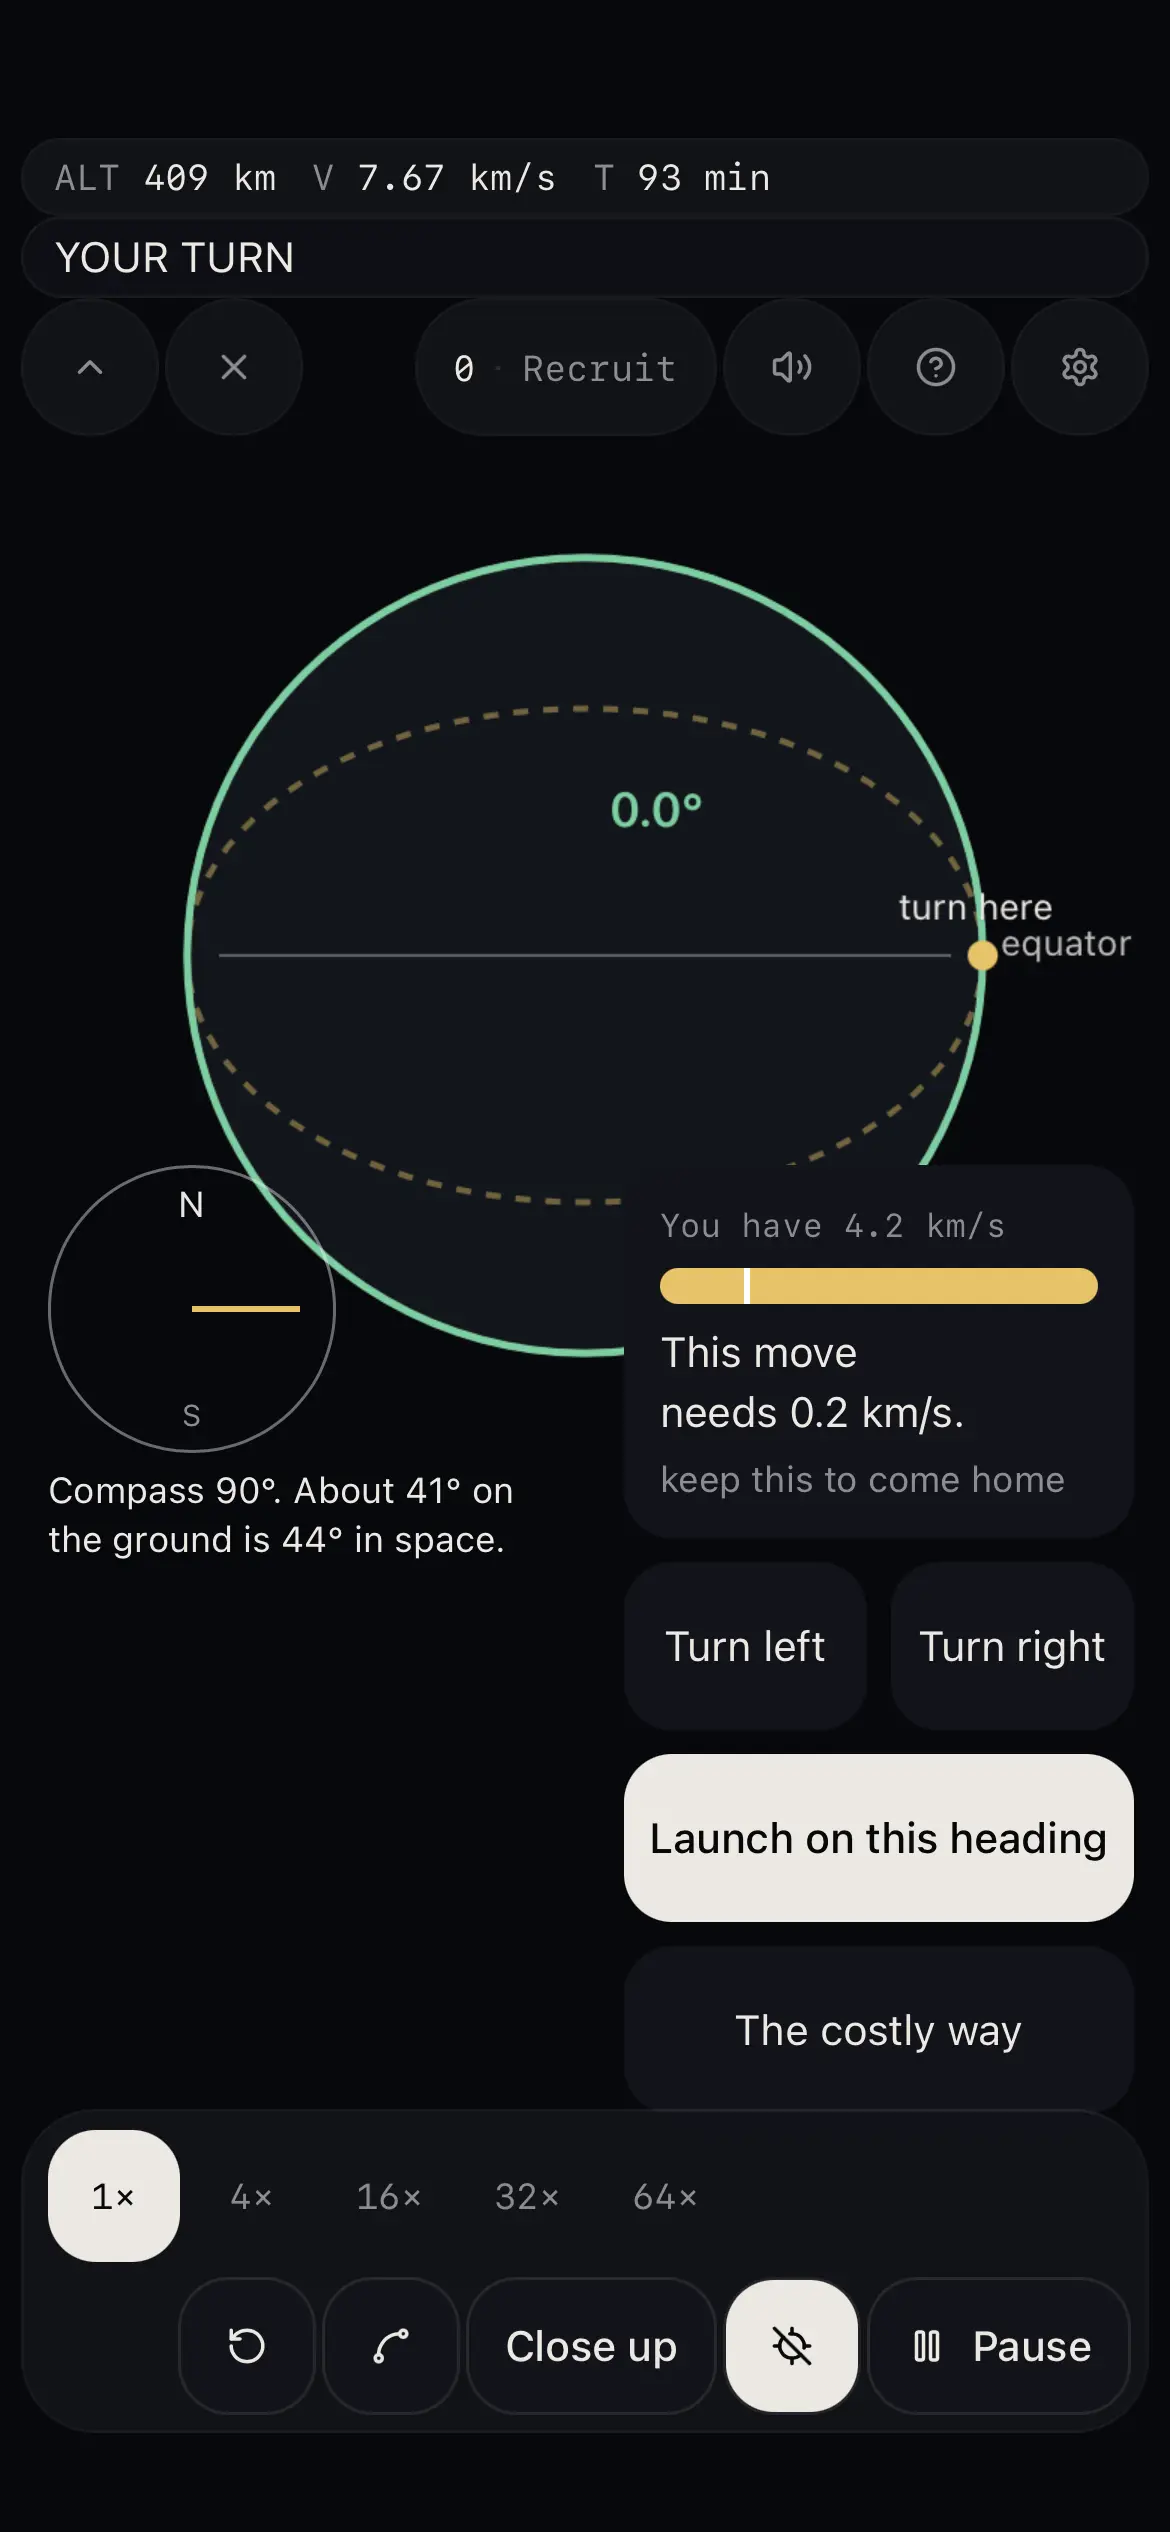
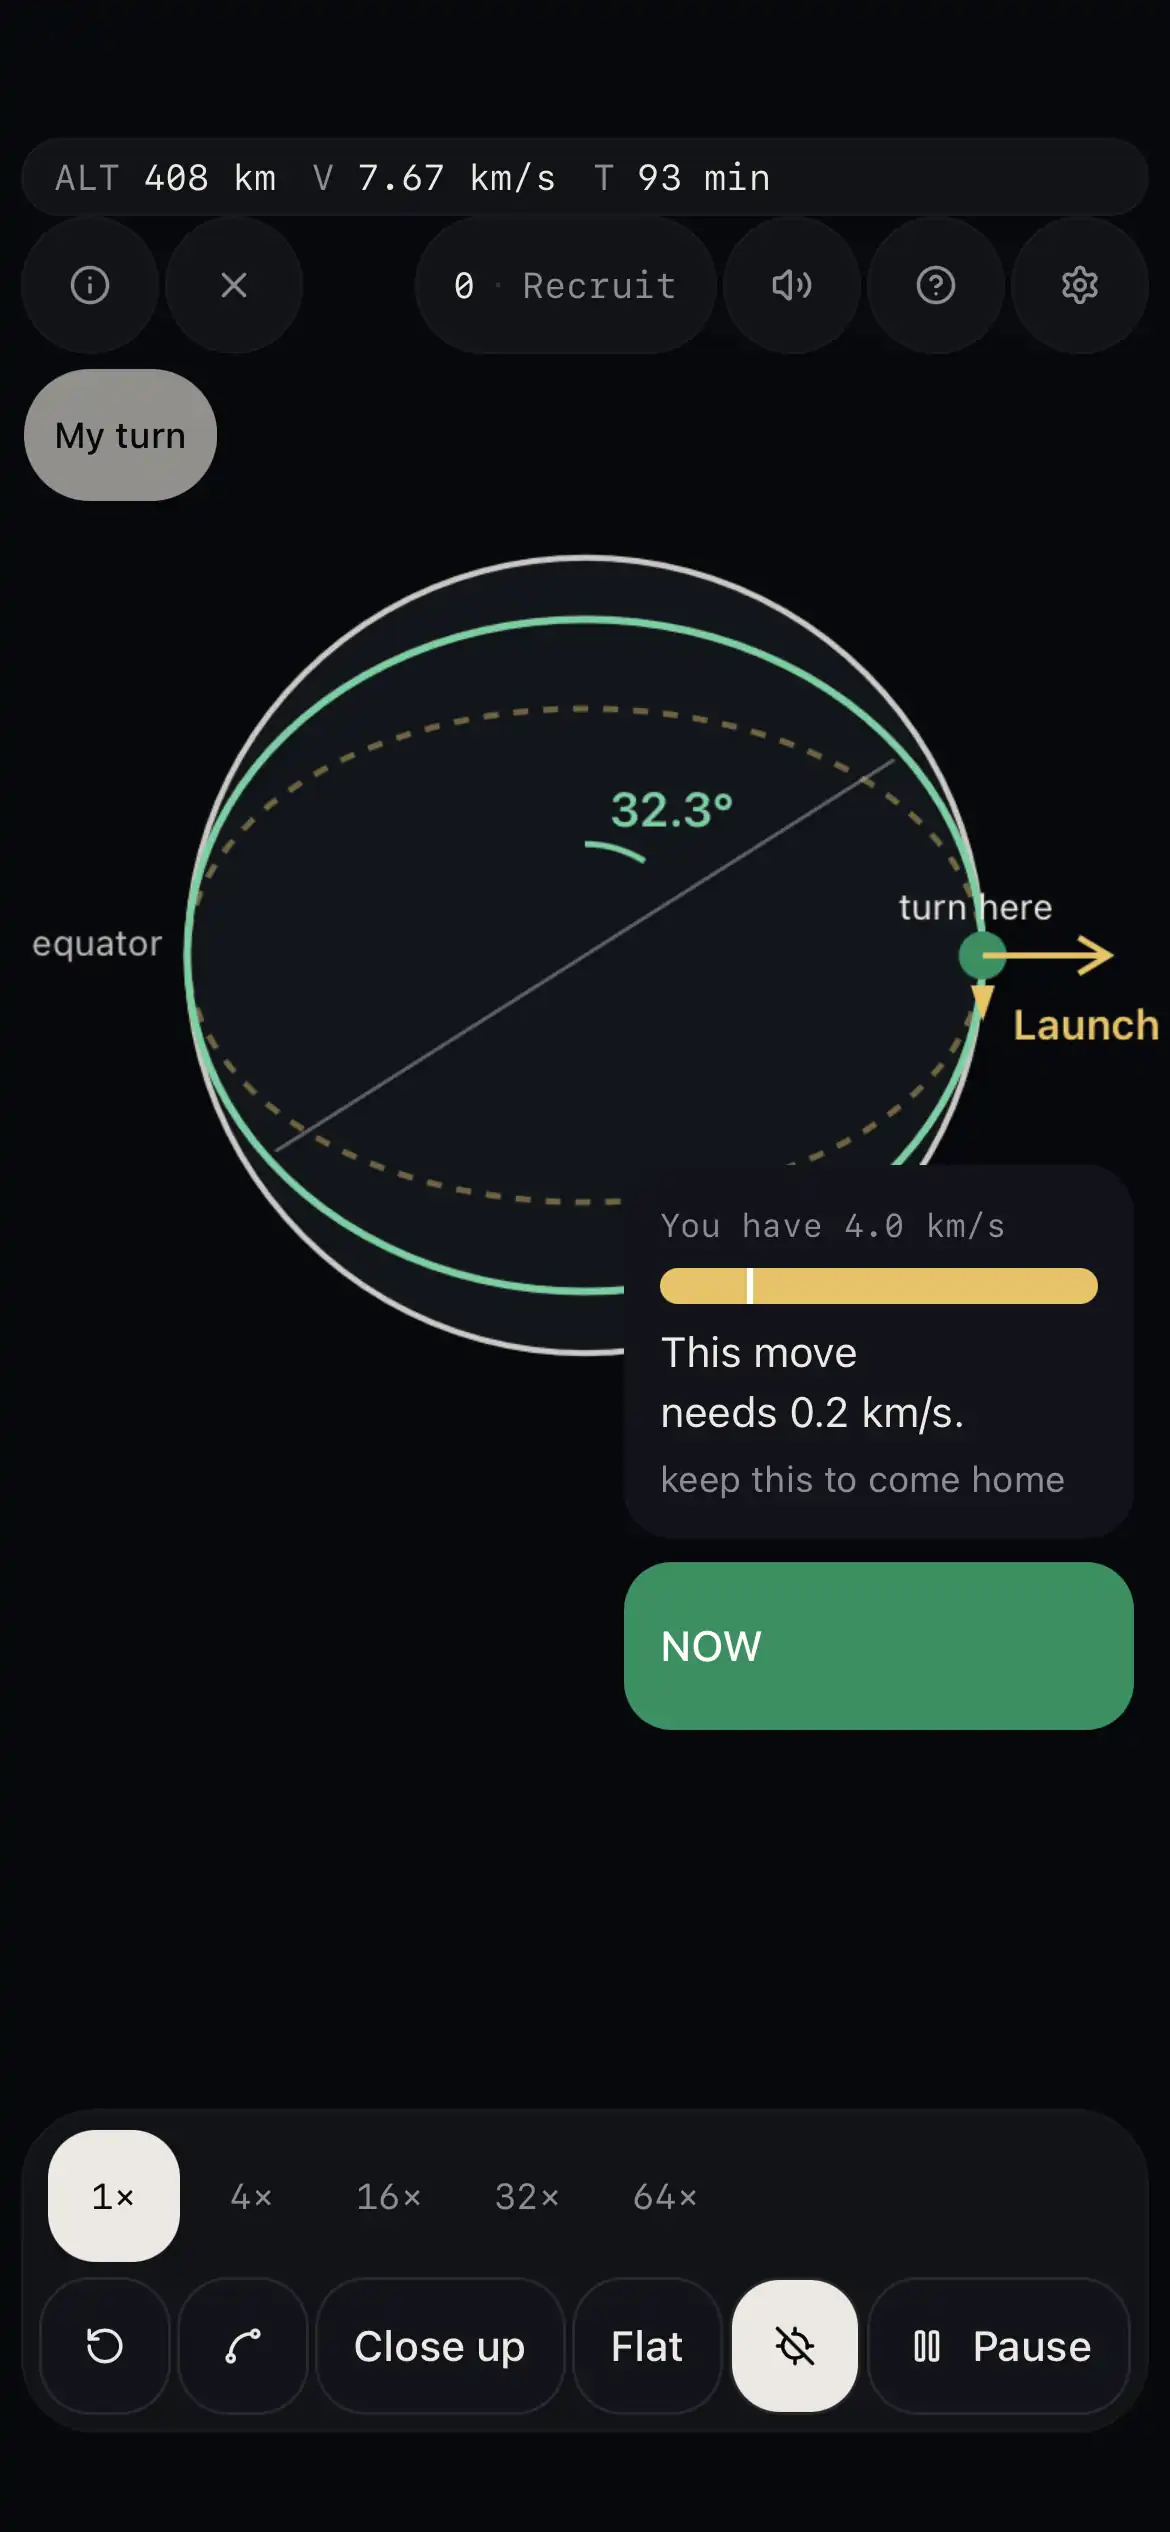
Update the manual for the queue 19 pictures

diff --git a/manual.html b/manual.html
@@ -235,10 +235,10 @@
       <h3>Tips</h3>
       <ul class="tips">
         <li>The question waits until the flight is on screen. Open the mission card on the phone if Question is folded away.</li>
-        <li>The word “turn here” still sits on the equator label. The compass and the burn name are the aim.</li>
+        <li>The word equator sits on the left of the disc. “turn here” sits on the right, on the node. They do not cover each other. On your turn the lesson card can hide the equator word.</li>
       </ul>
       <figure>
-        <img src="img/iphone-tilt-to-the-station.webp" alt="iPhone. The Tilt compass, about 41 degrees on the ground and 44 degrees in space.">
+        <img src="img/iphone-tilt-to-the-station.webp" alt="iPhone. Tilt to the station. Equator is on the left and turn here is on the right.">
         <figcaption>iPhone. Tilt to the station.</figcaption>
       </figure>
     </details>
@@ -252,7 +252,7 @@
       <p>The picture starts at Vandenberg, heading south. It is marked done when Polar is selected, the path has crossed a pole line at least four times, and the Earth’s spin has passed 0.7 radians. If Polar is not selected the status is “Select Polar in the orbit row.”</p>
       <h3>How to fly it</h3>
       <ol>
-        <li>Tap Polar, then Watch the poles. The picture opens on a compass at Vandenberg. Watch launches south. N is the top of the disc and S is the bottom. A gold track grows from the pad down to the south pole. The line says Earth spins east at 0.38 km/s and this heading takes none of it.</li>
+        <li>Tap Polar, then Watch the poles. The picture opens on a compass at Vandenberg. Watch launches south. The arrow beside the disc points down and is named South. N is the top of the disc and S is the bottom. A gold track grows from the pad down to the south pole. The line says Earth spins east at 0.38 km/s and this heading takes none of it.</li>
         <li>Press My turn. The card says: “Press Watch, Coach, or By hand. Then you fly it.”</li>
         <li>By hand starts at 90°, due east. Turn left and Turn right move the compass by 15°. South is about 183°. Launch on this heading. Due east is not over the pole, and the line says so.</li>
         <li>When the picture finishes, press Question and tap Polar. The path goes over the north pole, then the south pole. Your line stays still. Earth turns underneath, so the next lap sees a new place.</li>
@@ -267,7 +267,7 @@
         <li>A wrong pick names the orbit you tapped. Polar’s short line is “straight over both poles”.</li>
       </ul>
       <figure>
-        <img src="img/iphone-polar.webp" alt="iPhone. The Polar lesson.">
+        <img src="img/iphone-polar.webp" alt="iPhone. Polar at Vandenberg. The arrow beside the disc is named South.">
         <figcaption>iPhone. Polar.</figcaption>
       </figure>
     </details>
@@ -283,7 +283,7 @@
       <ol>
         <li>Tap Dawn-dusk, then Watch dawn-dusk. The example launches near 98.5°, a little past the pole, slightly retrograde. The line says “Launch at 98.5°. Slightly retrograde.”</li>
         <li>Press My turn. The card says: “Press Watch, Coach, or By hand. Then you fly it.”</li>
-        <li>By hand starts near 90°. Turn left and Turn right move it by 2°. The aim the picture asks for is about 98.5°. The mission card still rounds the same idea to 98.6°.</li>
+        <li>By hand starts near 90°. Turn left and Turn right move it by 0.5°. The aim the picture asks for is about 98.5°. The mission card still rounds the same idea to 98.6°.</li>
         <li>After the launch, the picture runs about 14 days. On the good tilt the line says the plane stays on the day-night line. A wrong tilt says the plane has walked off the Sun. Fast-forward applies on those days, then the burn stays at 1×.</li>
         <li>When you have flown it, press Question and tap Sun-sync. The lesson still finishes when that path has crossed a pole line four times and the Earth has turned. One real day is still a button on this orbit.</li>
       </ol>
@@ -294,10 +294,10 @@
       <h3>Tips</h3>
       <ul class="tips">
         <li>The craft is named Sentinel-2. Sun-sync’s short line, if you pick it by mistake on another question, is “the same light on every pass”.</li>
-        <li>The gold line “Earth’s bulge turns your orbit” is drawn across the ring. The sentence at the top is the same lesson.</li>
+        <li>The gold line “Earth’s bulge turns your orbit” sits under the disc. It does not cross the ring.</li>
       </ul>
       <figure>
-        <img src="img/iphone-dawn-dusk.webp" alt="iPhone. Dawn-dusk launches at 98.5 degrees, a little past the pole.">
+        <img src="img/iphone-dawn-dusk.webp" alt="iPhone. Dawn-dusk at 98.5 degrees. The gold line sits under the disc.">
         <figcaption>iPhone. Dawn-dusk.</figcaption>
       </figure>
     </details>
@@ -382,6 +382,7 @@
       <h3>Tips</h3>
       <ul class="tips">
         <li>The fuel bar turns red when the burn costs more than you have left. “This move needs 3.4 km/s.”</li>
+        <li>When the example finishes, the line stays: “On the belt. 6 planes, about 20 200 km, two laps a day. Spent 3.44 km/s. A low orbit is quicker and costs less. GEO is higher and slower.”</li>
         <li>MEO’s short line is “the middle ring, for navigation”.</li>
       </ul>
       <figure>
@@ -501,10 +502,11 @@
       <h3>Tips</h3>
       <ul class="tips">
         <li>A burn in the middle of the coast does not aim the meeting. The path was set when you left Earth.</li>
+        <li>The circle at Mars, and the burn that leaves it, are labelled 250 km up.</li>
         <li>On a waiting burn the status ends with “Hold to burn.” The coast line says to choose a time, then watch the path.</li>
       </ul>
       <figure>
-        <img src="img/iphone-to-mars.webp" alt="iPhone. The To Mars lesson.">
+        <img src="img/iphone-to-mars.webp" alt="iPhone. Leaving Mars, labelled 250 km up.">
         <figcaption>iPhone. To Mars.</figcaption>
       </figure>
     </details>
@@ -515,7 +517,7 @@
       <h3>Goal</h3>
       <p>Backward at Mars drops the near end onto Earth. Coast. Backward at Earth drops the far end. You then share Earth's year. A capture into low orbit would be one more backward burn, or a dip into the air.</p>
       <h3>How the game marks it done</h3>
-      <p>The voyage is done when its beats are finished. The steps are “1 · Slow at Mars”, “Coast · months”, and “2 · Slow at Earth”. When it is done the status adds “Earth is here.” The lesson ends when the second burn has dropped the far end.</p>
+      <p>The voyage is done when its beats are finished. The steps are “1 · Slow at Mars”, “Coast · months”, and “2 · Slow at Earth”. When you finish it yourself, the status adds “Earth is here.” The watched example’s last frame on the phone does not keep a mission line. The lesson ends when the second burn has dropped the far end. The phone then reads about 0.00 AU from Earth, 29.86 km/s, and a period of 368.0 days.</p>
       <h3>How to fly it</h3>
       <ol>
         <li>Tap Home from Mars, then Come home. Come home on this card is this lesson, not Belly flop.</li>
@@ -534,7 +536,7 @@
         <li>The points are awarded once, on your turn, when the lesson is really finished. Doing it again does not add points.</li>
       </ul>
       <figure>
-        <img src="img/iphone-home-from-mars.webp" alt="iPhone. The Home from Mars lesson.">
+        <img src="img/iphone-home-from-mars.webp" alt="iPhone. Slowing down at Earth on the way home from Mars.">
         <figcaption>iPhone. Home from Mars.</figcaption>
       </figure>
     </details>
